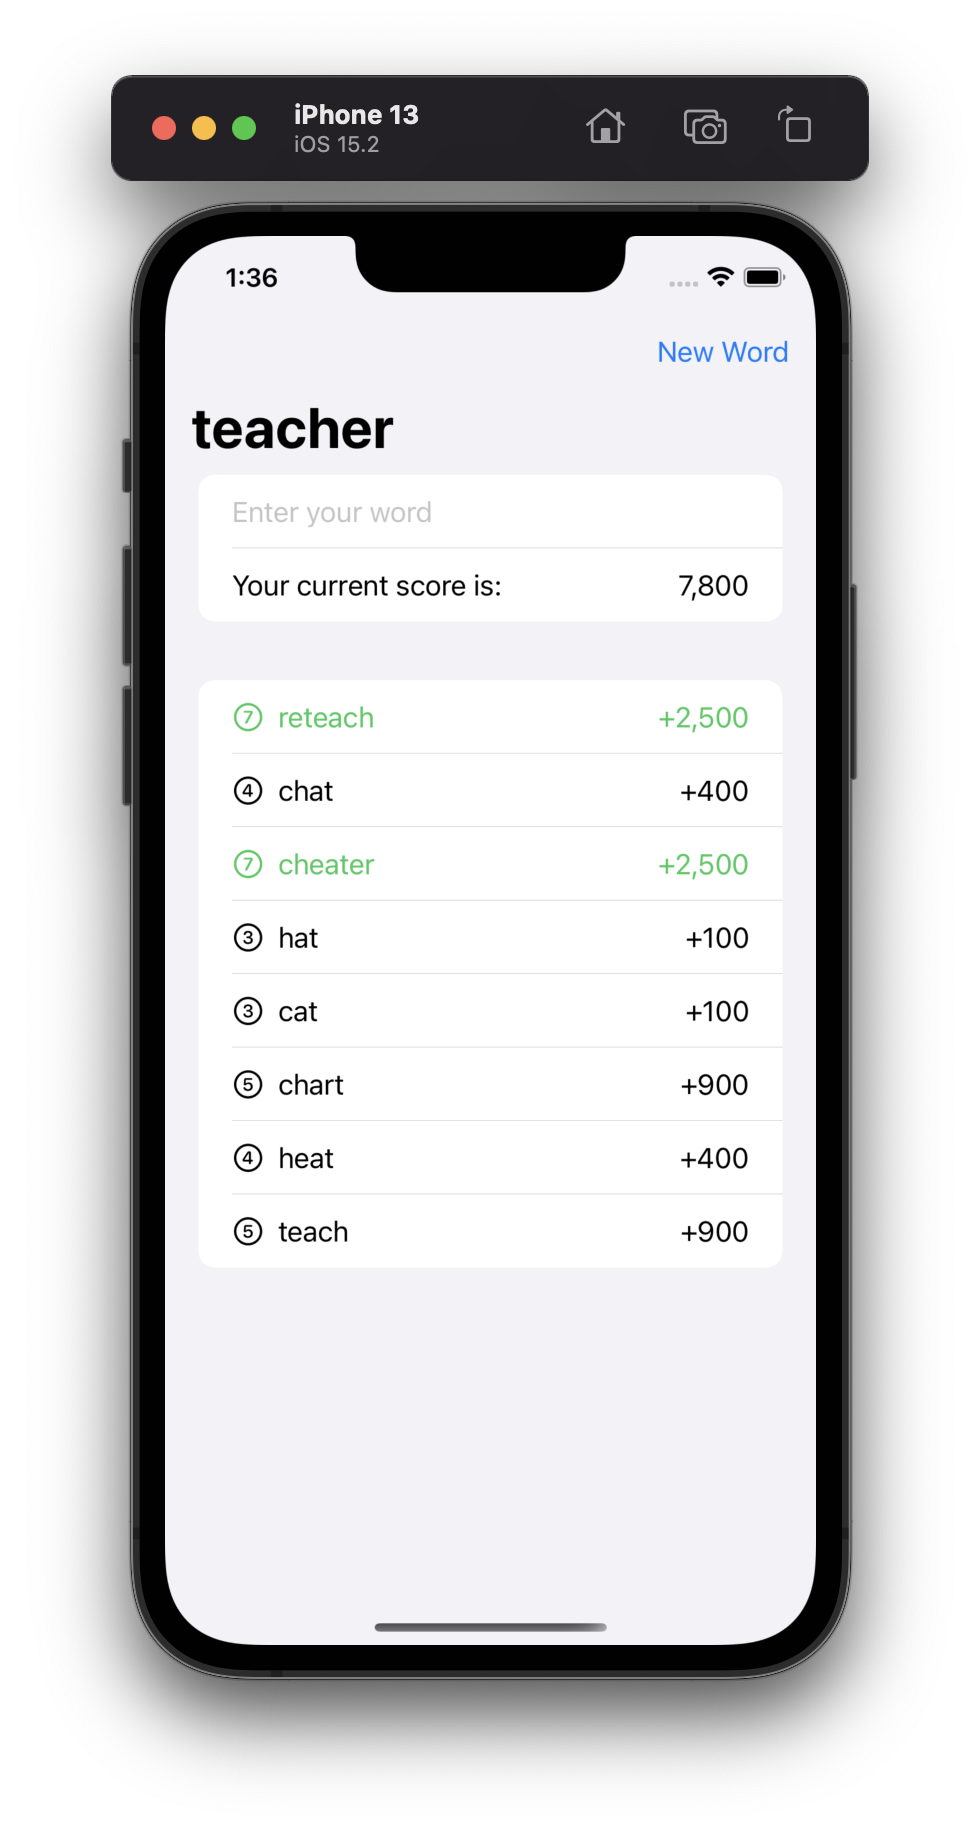
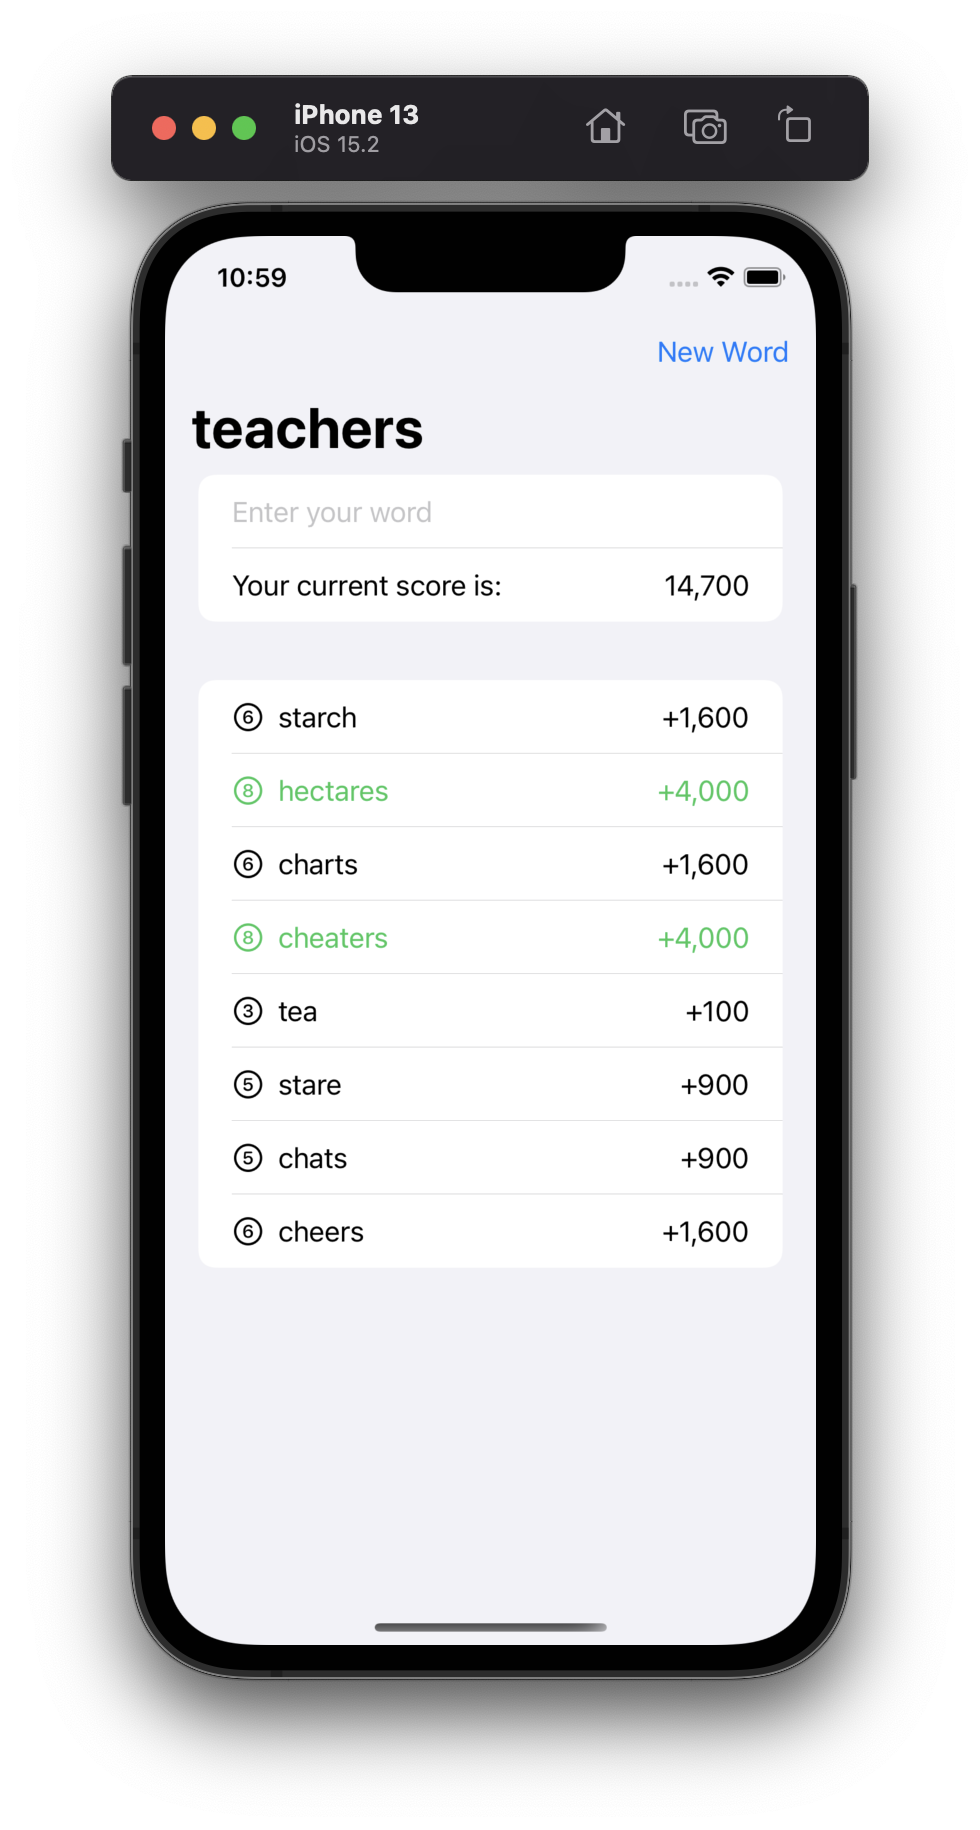
Update screenshots for Project 5 - Word Scramble

diff --git a/07-Project-5-WordScramble/WordScramble/WordScramble/ContentView.swift b/07-Project-5-WordScramble/WordScramble/WordScramble/ContentView.swift
@@ -48,7 +48,7 @@ struct ContentView: View {
                             Spacer()
                             Text("+\(wordLengthValues[word.count] ?? 0)")
                         }
-                        .foregroundColor(word.count == 7 ? .green : .primary)
+                        .foregroundColor(word.count == 8 ? .green : .primary)
                     }
                 }
             }
